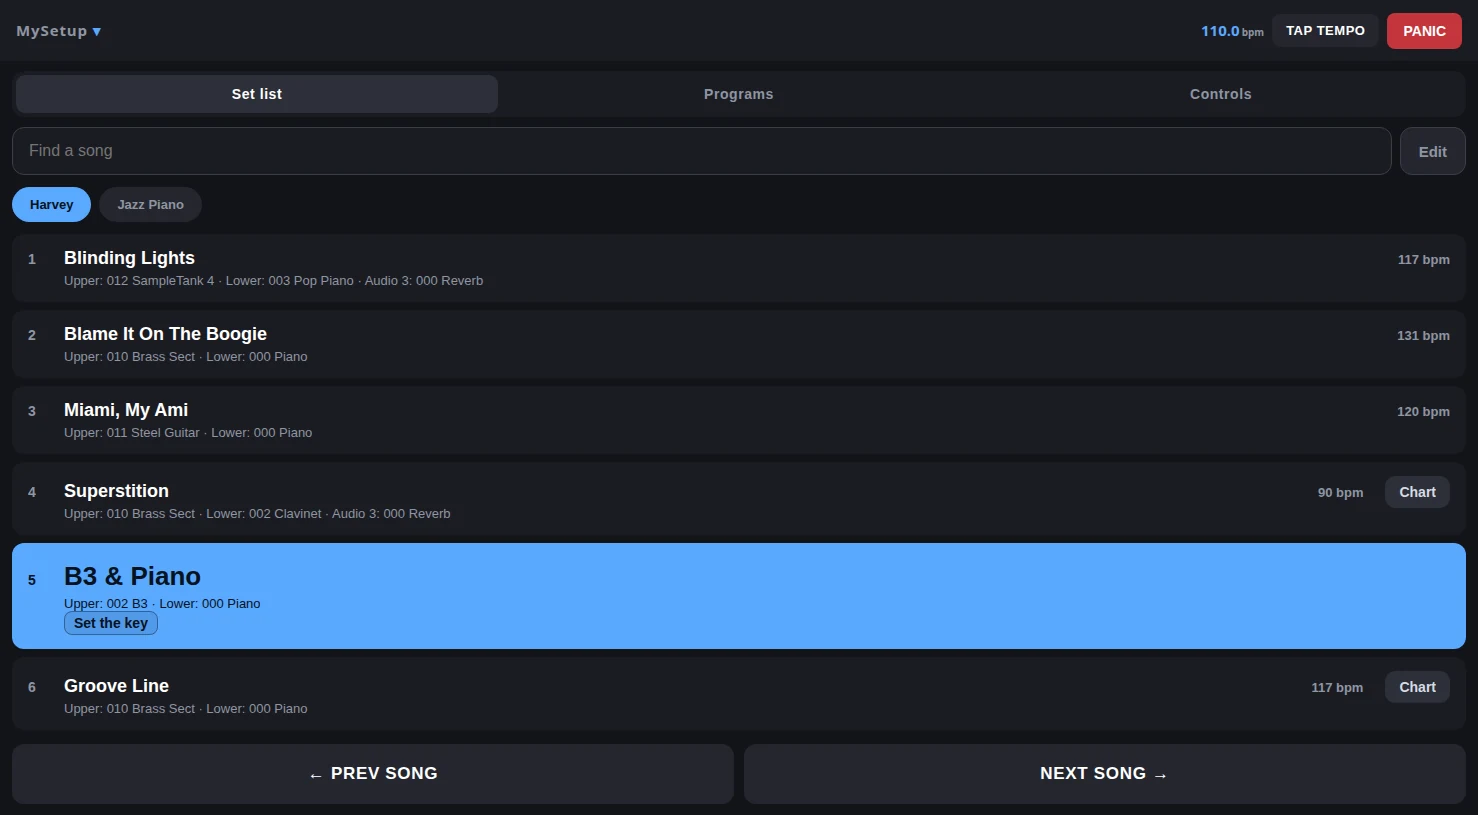
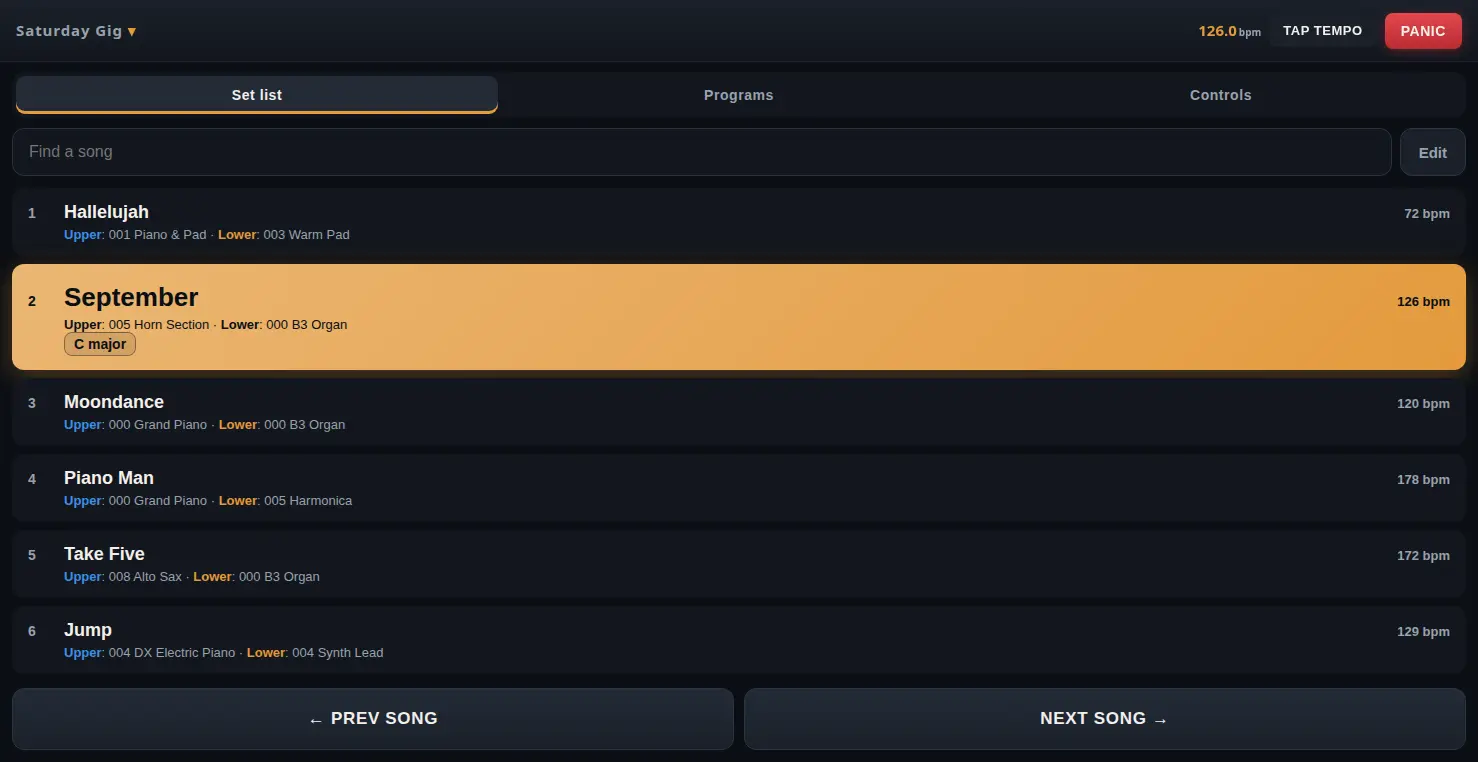
The tablet's set list from the demo setup, and versioned image links
Browsers keep images for four hours, so a replaced screenshot stayed old
for anyone who had visited; ?v=2 on the changed ones makes them fetch it.

diff --git a/index.html b/index.html
@@ -115,7 +115,7 @@
   </div>
 
   <figure class="shot wide">
-    <img src="assets/img/stagerig.webp" width="1440" height="900" loading="lazy"
+    <img src="assets/img/stagerig.webp?v=2" width="1440" height="900" loading="lazy"
          alt="StageRig&#39;s main window: songs and a wedding set list with tempos, two keyboards, a program list grouped by kind, and a Piano &amp; Pad program: Kontakt 8, a Windows plugin, playing a grand piano with a synth pad layered over it">
     <figcaption>Songs and set lists, inputs, programs, and the instruments on the program in play: here Kontakt 8, a Windows plugin, playing a grand piano with a synth pad layered over it.</figcaption>
   </figure>
@@ -193,13 +193,13 @@
 
   <div class="pair">
     <figure class="shot">
-      <img src="assets/img/perform.webp" width="1600" height="1000" loading="lazy"
+      <img src="assets/img/perform.webp?v=2" width="1600" height="1000" loading="lazy"
            alt="The performance view: Horn Section and B3 Organ in large type, above the organ&#39;s drawbars">
       <figcaption>Perform: each keyboard's program in large type, with its knobs.</figcaption>
     </figure>
     <figure class="shot">
-      <img src="assets/img/tablet-setlist.webp" width="1478" height="815" loading="lazy"
-           alt="The tablet's set list with the current song highlighted and what each keyboard plays">
+      <img src="assets/img/tablet-setlist.webp?v=2" width="1478" height="762" loading="lazy"
+           alt="The tablet's set list for a Saturday wedding, with September highlighted and what each keyboard plays">
       <figcaption>The set list on the tablet.</figcaption>
     </figure>
   </div>
